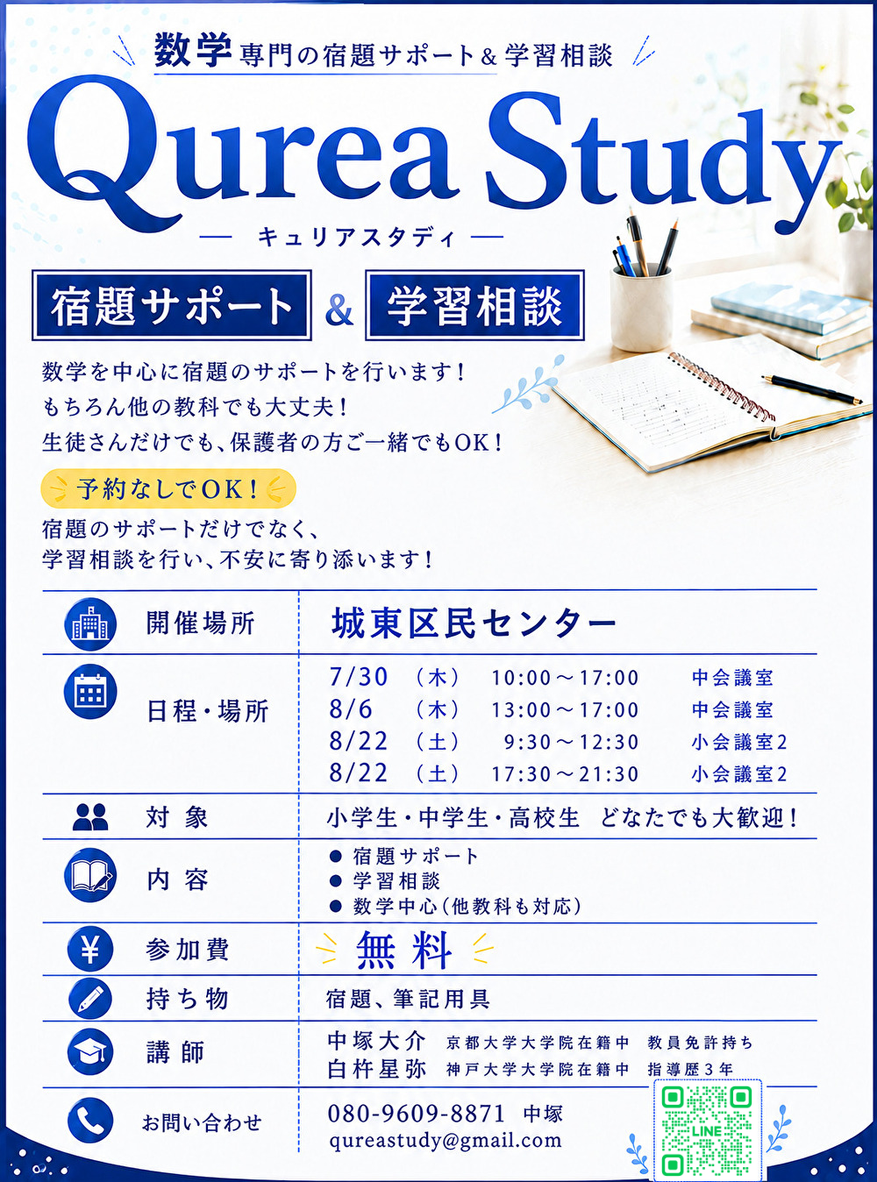
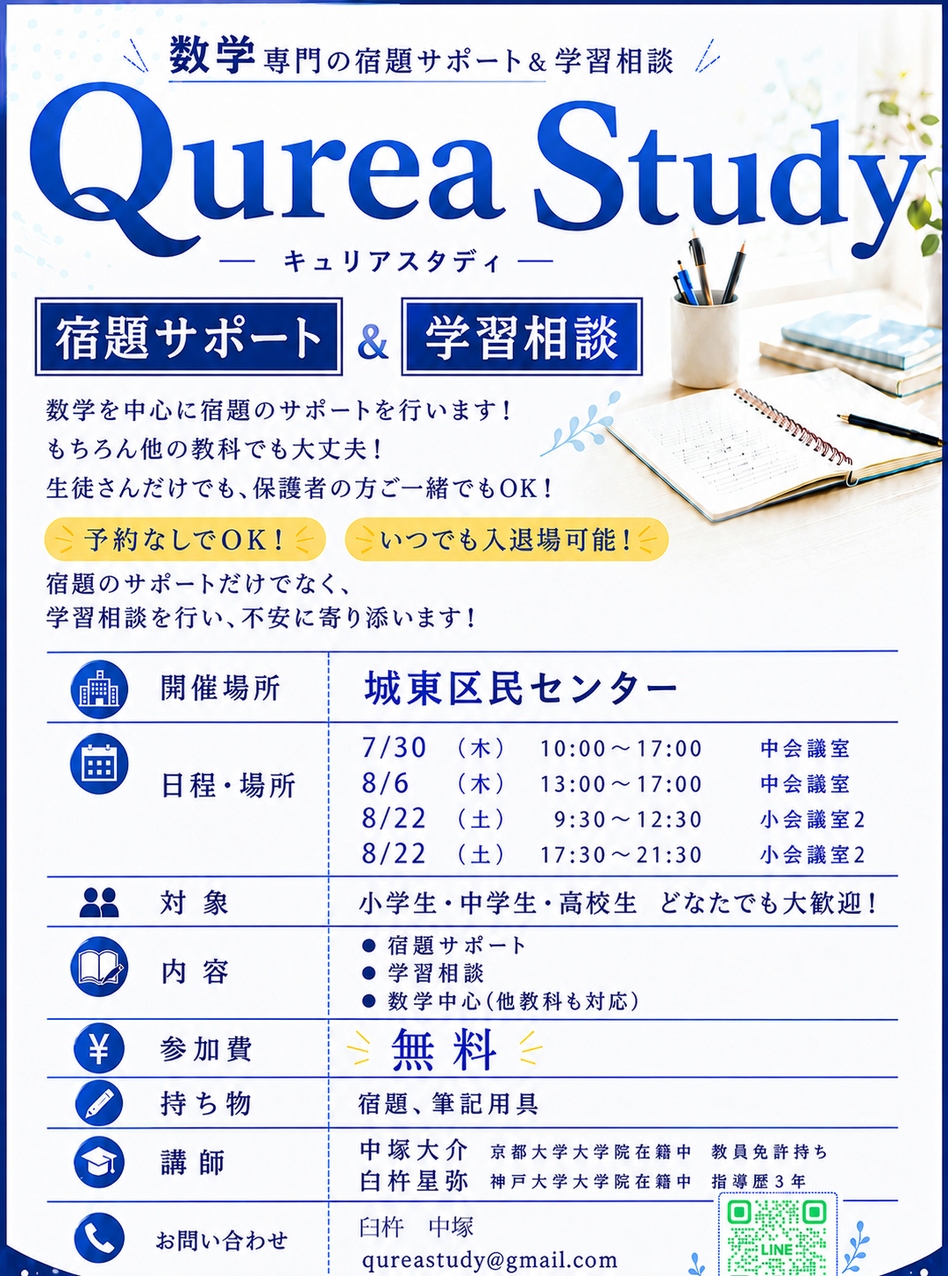
Add files via upload

Changed region(s): [[0.0, 0.0, 1.0, 1.0]]

diff --git a/event/index.html b/event/index.html
@@ -15,7 +15,7 @@
   <meta name="twitter:card" content="summary_large_image">
   <link rel="icon" href="../favicon.png" type="image/png">
   <link rel="stylesheet" href="../assets/css/style.css">
-  <script type="application/ld+json">{"@context":"https://schema.org","@type":"EducationalOrganization","name":"Qurea Study","alternateName":["QureaStudy","qureastudy","キュレアスタディ"],"url":"https://www.qurea-study.com","email":"qureastudy@gmail.com","telephone":"080-9606-8871","areaServed":["大阪市城東区","大阪市"],"description":"大阪市城東区を中心に、数学に強い家庭教師・個別指導を行う学習サポートサービスです。"}</script>
+  <script type="application/ld+json">{"@context":"https://schema.org","@type":"EducationalOrganization","name":"Qurea Study","alternateName":["QureaStudy","qureastudy","キュレアスタディ"],"url":"https://www.qurea-study.com","email":"qureastudy@gmail.com","areaServed":["大阪市城東区","大阪市"],"description":"大阪市城東区を中心に、数学に強い家庭教師・個別指導を行う学習サポートサービスです。"}</script>
   <script type="application/ld+json">{"@context":"https://schema.org","@graph":[{"@type":"Event","name":"夏休み 宿題サポート＆学習相談","description":"数学を中心とした宿題サポートと学習相談。参加費無料・予約不要。","startDate":"2026-07-30T10:00:00+09:00","endDate":"2026-07-30T17:00:00+09:00","eventAttendanceMode":"https://schema.org/OfflineEventAttendanceMode","eventStatus":"https://schema.org/EventScheduled","isAccessibleForFree":true,"location":{"@type":"Place","name":"城東区民センター 中会議室","address":{"@type":"PostalAddress","addressLocality":"大阪市城東区","addressRegion":"大阪府","addressCountry":"JP"}},"organizer":{"@type":"Organization","name":"Qurea Study","url":"https://www.qurea-study.com"},"offers":{"@type":"Offer","price":"0","priceCurrency":"JPY","availability":"https://schema.org/InStock","url":"https://www.qurea-study.com/event/"}},{"@type":"Event","name":"夏休み 宿題サポート＆学習相談","description":"数学を中心とした宿題サポートと学習相談。参加費無料・予約不要。","startDate":"2026-08-06T13:00:00+09:00","endDate":"2026-08-06T17:00:00+09:00","eventAttendanceMode":"https://schema.org/OfflineEventAttendanceMode","eventStatus":"https://schema.org/EventScheduled","isAccessibleForFree":true,"location":{"@type":"Place","name":"城東区民センター 中会議室","address":{"@type":"PostalAddress","addressLocality":"大阪市城東区","addressRegion":"大阪府","addressCountry":"JP"}},"organizer":{"@type":"Organization","name":"Qurea Study","url":"https://www.qurea-study.com"},"offers":{"@type":"Offer","price":"0","priceCurrency":"JPY","availability":"https://schema.org/InStock","url":"https://www.qurea-study.com/event/"}},{"@type":"Event","name":"夏休み 宿題サポート＆学習相談","description":"数学を中心とした宿題サポートと学習相談。参加費無料・予約不要。","startDate":"2026-08-22T09:30:00+09:00","endDate":"2026-08-22T12:30:00+09:00","eventAttendanceMode":"https://schema.org/OfflineEventAttendanceMode","eventStatus":"https://schema.org/EventScheduled","isAccessibleForFree":true,"location":{"@type":"Place","name":"城東区民センター 小会議室2","address":{"@type":"PostalAddress","addressLocality":"大阪市城東区","addressRegion":"大阪府","addressCountry":"JP"}},"organizer":{"@type":"Organization","name":"Qurea Study","url":"https://www.qurea-study.com"},"offers":{"@type":"Offer","price":"0","priceCurrency":"JPY","availability":"https://schema.org/InStock","url":"https://www.qurea-study.com/event/"}},{"@type":"Event","name":"夏休み 宿題サポート＆学習相談","description":"数学を中心とした宿題サポートと学習相談。参加費無料・予約不要。","startDate":"2026-08-22T17:30:00+09:00","endDate":"2026-08-22T21:30:00+09:00","eventAttendanceMode":"https://schema.org/OfflineEventAttendanceMode","eventStatus":"https://schema.org/EventScheduled","isAccessibleForFree":true,"location":{"@type":"Place","name":"城東区民センター 小会議室2","address":{"@type":"PostalAddress","addressLocality":"大阪市城東区","addressRegion":"大阪府","addressCountry":"JP"}},"organizer":{"@type":"Organization","name":"Qurea Study","url":"https://www.qurea-study.com"},"offers":{"@type":"Offer","price":"0","priceCurrency":"JPY","availability":"https://schema.org/InStock","url":"https://www.qurea-study.com/event/"}}]}</script>
 </head>
 <body>
@@ -26,7 +26,7 @@
       <span><small>数学に強い家庭教師</small><strong>Qurea Study</strong></span>
     </a>
     <button class="menu-button" type="button" aria-label="メニューを開く" aria-expanded="false" aria-controls="global-nav"><span></span><span></span><span></span></button>
-    <nav class="global-nav" id="global-nav" aria-label="グローバルナビゲーション"><a href="../">トップ</a><a href="../event/" class="nav-event" aria-current="page">夏休み無料イベント</a><a href="../math/">数学特化</a><a href="../price/">料金</a><a href="../exam-test/">受験・テスト</a><a href="../online/">オンライン</a><a href="../area/osaka-joto/">対応地域</a><a href="../faq/">FAQ</a><a href="../contact/">無料相談</a></nav><div class="header-actions"><a class="header-phone" href="tel:08096068871">080-9606-8871</a><a class="header-cta" href="#line-qr">無料学習相談</a></div>
+    <nav class="global-nav" id="global-nav" aria-label="グローバルナビゲーション"><a href="../">トップ</a><a href="../event/" class="nav-event" aria-current="page">夏休み無料イベント</a><a href="../math/">数学特化</a><a href="../price/">料金</a><a href="../exam-test/">受験・テスト</a><a href="../online/">オンライン</a><a href="../area/osaka-joto/">対応地域</a><a href="../faq/">FAQ</a><a href="../contact/">無料相談</a></nav><div class="header-actions"><a class="header-cta" href="#line-qr">無料学習相談</a></div>
   </div>
 </header>
 <main>

diff --git a/contact/index.html b/contact/index.html
@@ -1,4 +1,4 @@
-<!doctype html>
+<!doctype html>
 <html lang="ja">
 <head>
   <meta charset="utf-8">
@@ -15,7 +15,7 @@
   <meta name="twitter:card" content="summary_large_image">
   <link rel="icon" href="../favicon.png" type="image/png">
   <link rel="stylesheet" href="../assets/css/style.css">
-  <script type="application/ld+json">{"@context":"https://schema.org","@type":"EducationalOrganization","name":"Qurea Study","alternateName":["QureaStudy","qureastudy","キュレアスタディ"],"url":"https://www.qurea-study.com","email":"qureastudy@gmail.com","telephone":"080-9606-8871","areaServed":["大阪市城東区","大阪市"],"description":"大阪市城東区を中心に、数学に強い家庭教師・個別指導を行う学習サポートサービスです。"}</script>
+  <script type="application/ld+json">{"@context":"https://schema.org","@type":"EducationalOrganization","name":"Qurea Study","alternateName":["QureaStudy","qureastudy","キュレアスタディ"],"url":"https://www.qurea-study.com","email":"qureastudy@gmail.com","areaServed":["大阪市城東区","大阪市"],"description":"大阪市城東区を中心に、数学に強い家庭教師・個別指導を行う学習サポートサービスです。"}</script>
   
 </head>
 <body>
@@ -26,7 +26,7 @@
       <span><small>数学に強い家庭教師</small><strong>Qurea Study</strong></span>
     </a>
     <button class="menu-button" type="button" aria-label="メニューを開く" aria-expanded="false" aria-controls="global-nav"><span></span><span></span><span></span></button>
-    <nav class="global-nav" id="global-nav" aria-label="グローバルナビゲーション"><a href="../">トップ</a><a href="../event/" class="nav-event">夏休み無料イベント</a><a href="../math/">数学特化</a><a href="../price/">料金</a><a href="../exam-test/">受験・テスト</a><a href="../online/">オンライン</a><a href="../area/osaka-joto/">対応地域</a><a href="../faq/">FAQ</a><a href="../contact/" aria-current="page">無料相談</a></nav><div class="header-actions"><a class="header-phone" href="tel:08096068871">080-9606-8871</a><a class="header-cta" href="#line-qr">無料学習相談</a></div>
+    <nav class="global-nav" id="global-nav" aria-label="グローバルナビゲーション"><a href="../">トップ</a><a href="../event/" class="nav-event">夏休み無料イベント</a><a href="../math/">数学特化</a><a href="../price/">料金</a><a href="../exam-test/">受験・テスト</a><a href="../online/">オンライン</a><a href="../area/osaka-joto/">対応地域</a><a href="../faq/">FAQ</a><a href="../contact/" aria-current="page">無料相談</a></nav><div class="header-actions"><a class="header-cta" href="#line-qr">無料学習相談</a></div>
   </div>
 </header>
 <main>
@@ -38,7 +38,7 @@
         <p>LINEで無料学習相談、勉強方法の相談、わからない問題の写真相談、無料体験の申し込みができます。まずは現在の学習状況をお知らせください。</p>
         <div class="button-row"><a class="button primary" href="#line-qr">LINEで無料相談する</a><a class="button secondary" href="#line-qr">無料体験を申し込む</a></div>
       </div>
-      <figure class="hero-photo"><img src="../assets/images/illustration-contact.svg" alt="チャットと電話でのお問い合わせをイメージしたイラスト" loading="eager"><figcaption>無料体験の前に、学習状況や不安な点を相談できます。</figcaption></figure>
+      <figure class="hero-photo"><img src="../assets/images/illustration-contact.svg" alt="チャットでのお問い合わせをイメージしたイラスト" loading="eager"><figcaption>無料体験の前に、学習状況や不安な点を相談できます。</figcaption></figure>
     </div>
   </section>
   <div class="container"><nav class="breadcrumb" aria-label="パンくずリスト"><ol><li><a href="../">トップ</a></li><li aria-current="page">お問い合わせページ</li></ol></nav></div>
@@ -51,7 +51,7 @@
 </section>
   
   
-  <section class="section section-soft"><div class="container contact-methods"><a href="tel:08096068871"><span>電話</span><strong>080-9606-8871</strong></a><a href="mailto:qureastudy@gmail.com"><span>メール</span><strong>qureastudy@gmail.com</strong></a><a href="../price/"><span>料金確認</span><strong>料金表を見る</strong></a></div></section>
+  <section class="section section-soft"><div class="container contact-methods"><a href="mailto:qureastudy@gmail.com"><span>メール</span><strong>qureastudy@gmail.com</strong></a><a href="../price/"><span>料金確認</span><strong>料金表を見る</strong></a></div></section>
   <div class="container"><p class="teacher-credit">講師<br>中塚　京都大学大学院　中高教員免許持ち<br>臼杵　神戸大学大学院　指導歴4年</p></div>
   <section class="section related-links"><div class="container"><h2>関連ページ</h2><div class="related-grid"><a href="../math/">数学が苦手な生徒へ</a><a href="../price/">料金案内</a><a href="../exam-test/">定期テスト・大学受験対策</a><a href="../online/">オンライン家庭教師</a><a href="../area/osaka-joto/">大阪市城東区の家庭教師</a><a href="../contact/">お問い合わせ</a></div></div></section>
   <section class="line-cta" aria-labelledby="line-cta-contact-index">

diff --git a/faq/index.html b/faq/index.html
@@ -1,4 +1,4 @@
-<!doctype html>
+<!doctype html>
 <html lang="ja">
 <head>
   <meta charset="utf-8">
@@ -15,7 +15,7 @@
   <meta name="twitter:card" content="summary_large_image">
   <link rel="icon" href="../favicon.png" type="image/png">
   <link rel="stylesheet" href="../assets/css/style.css">
-  <script type="application/ld+json">{"@context":"https://schema.org","@type":"EducationalOrganization","name":"Qurea Study","alternateName":["QureaStudy","qureastudy","キュレアスタディ"],"url":"https://www.qurea-study.com","email":"qureastudy@gmail.com","telephone":"080-9606-8871","areaServed":["大阪市城東区","大阪市"],"description":"大阪市城東区を中心に、数学に強い家庭教師・個別指導を行う学習サポートサービスです。"}</script>
+  <script type="application/ld+json">{"@context":"https://schema.org","@type":"EducationalOrganization","name":"Qurea Study","alternateName":["QureaStudy","qureastudy","キュレアスタディ"],"url":"https://www.qurea-study.com","email":"qureastudy@gmail.com","areaServed":["大阪市城東区","大阪市"],"description":"大阪市城東区を中心に、数学に強い家庭教師・個別指導を行う学習サポートサービスです。"}</script>
   <script type="application/ld+json">{"@context":"https://schema.org","@type":"FAQPage","mainEntity":[{"@type":"Question","name":"無料体験はできますか？","acceptedAnswer":{"@type":"Answer","text":"はい、初回60分無料体験を相談できます。学年、教科、苦手分野、希望日時をLINEからお知らせください。"}},{"@type":"Question","name":"数学が苦手でも大丈夫ですか？","acceptedAnswer":{"@type":"Answer","text":"大丈夫です。数学科出身講師も在籍しており、苦手な部分を分析して基礎から丁寧に指導します。"}},{"@type":"Question","name":"オンライン指導は可能ですか？","acceptedAnswer":{"@type":"Answer","text":"はい、Zoom等を使ったオンライン指導にも対応しています。LINEで問題写真を送って相談することもできます。"}},{"@type":"Question","name":"大学受験対策はできますか？","acceptedAnswer":{"@type":"Answer","text":"共通テスト対策、国公立大学受験、難関私大受験に対応しています。"}},{"@type":"Question","name":"LINEでは何ができますか？","acceptedAnswer":{"@type":"Answer","text":"無料学習相談、勉強方法の相談、わからない問題の写真相談、無料体験の申し込みができます。"}}]}</script>
 </head>
 <body>
@@ -26,7 +26,7 @@
       <span><small>数学に強い家庭教師</small><strong>Qurea Study</strong></span>
     </a>
     <button class="menu-button" type="button" aria-label="メニューを開く" aria-expanded="false" aria-controls="global-nav"><span></span><span></span><span></span></button>
-    <nav class="global-nav" id="global-nav" aria-label="グローバルナビゲーション"><a href="../">トップ</a><a href="../event/" class="nav-event">夏休み無料イベント</a><a href="../math/">数学特化</a><a href="../price/">料金</a><a href="../exam-test/">受験・テスト</a><a href="../online/">オンライン</a><a href="../area/osaka-joto/">対応地域</a><a href="../faq/" aria-current="page">FAQ</a><a href="../contact/">無料相談</a></nav><div class="header-actions"><a class="header-phone" href="tel:08096068871">080-9606-8871</a><a class="header-cta" href="#line-qr">無料学習相談</a></div>
+    <nav class="global-nav" id="global-nav" aria-label="グローバルナビゲーション"><a href="../">トップ</a><a href="../event/" class="nav-event">夏休み無料イベント</a><a href="../math/">数学特化</a><a href="../price/">料金</a><a href="../exam-test/">受験・テスト</a><a href="../online/">オンライン</a><a href="../area/osaka-joto/">対応地域</a><a href="../faq/" aria-current="page">FAQ</a><a href="../contact/">無料相談</a></nav><div class="header-actions"><a class="header-cta" href="#line-qr">無料学習相談</a></div>
   </div>
 </header>
 <main>

diff --git a/area/osaka-joto/index.html b/area/osaka-joto/index.html
@@ -1,4 +1,4 @@
-<!doctype html>
+<!doctype html>
 <html lang="ja">
 <head>
   <meta charset="utf-8">
@@ -15,7 +15,7 @@
   <meta name="twitter:card" content="summary_large_image">
   <link rel="icon" href="../../favicon.png" type="image/png">
   <link rel="stylesheet" href="../../assets/css/style.css">
-  <script type="application/ld+json">{"@context":"https://schema.org","@type":"EducationalOrganization","name":"Qurea Study","alternateName":["QureaStudy","qureastudy","キュレアスタディ"],"url":"https://www.qurea-study.com","email":"qureastudy@gmail.com","telephone":"080-9606-8871","areaServed":["大阪市城東区","大阪市"],"description":"大阪市城東区を中心に、数学に強い家庭教師・個別指導を行う学習サポートサービスです。"}</script>
+  <script type="application/ld+json">{"@context":"https://schema.org","@type":"EducationalOrganization","name":"Qurea Study","alternateName":["QureaStudy","qureastudy","キュレアスタディ"],"url":"https://www.qurea-study.com","email":"qureastudy@gmail.com","areaServed":["大阪市城東区","大阪市"],"description":"大阪市城東区を中心に、数学に強い家庭教師・個別指導を行う学習サポートサービスです。"}</script>
   
 </head>
 <body>
@@ -26,7 +26,7 @@
       <span><small>数学に強い家庭教師</small><strong>Qurea Study</strong></span>
     </a>
     <button class="menu-button" type="button" aria-label="メニューを開く" aria-expanded="false" aria-controls="global-nav"><span></span><span></span><span></span></button>
-    <nav class="global-nav" id="global-nav" aria-label="グローバルナビゲーション"><a href="../../">トップ</a><a href="../../event/" class="nav-event">夏休み無料イベント</a><a href="../../math/">数学特化</a><a href="../../price/">料金</a><a href="../../exam-test/">受験・テスト</a><a href="../../online/">オンライン</a><a href="../../area/osaka-joto/" aria-current="page">対応地域</a><a href="../../faq/">FAQ</a><a href="../../contact/">無料相談</a></nav><div class="header-actions"><a class="header-phone" href="tel:08096068871">080-9606-8871</a><a class="header-cta" href="#line-qr">無料学習相談</a></div>
+    <nav class="global-nav" id="global-nav" aria-label="グローバルナビゲーション"><a href="../../">トップ</a><a href="../../event/" class="nav-event">夏休み無料イベント</a><a href="../../math/">数学特化</a><a href="../../price/">料金</a><a href="../../exam-test/">受験・テスト</a><a href="../../online/">オンライン</a><a href="../../area/osaka-joto/" aria-current="page">対応地域</a><a href="../../faq/">FAQ</a><a href="../../contact/">無料相談</a></nav><div class="header-actions"><a class="header-cta" href="#line-qr">無料学習相談</a></div>
   </div>
 </header>
 <main>

diff --git a/exam-test/index.html b/exam-test/index.html
@@ -1,4 +1,4 @@
-<!doctype html>
+<!doctype html>
 <html lang="ja">
 <head>
   <meta charset="utf-8">
@@ -15,7 +15,7 @@
   <meta name="twitter:card" content="summary_large_image">
   <link rel="icon" href="../favicon.png" type="image/png">
   <link rel="stylesheet" href="../assets/css/style.css">
-  <script type="application/ld+json">{"@context":"https://schema.org","@type":"EducationalOrganization","name":"Qurea Study","alternateName":["QureaStudy","qureastudy","キュレアスタディ"],"url":"https://www.qurea-study.com","email":"qureastudy@gmail.com","telephone":"080-9606-8871","areaServed":["大阪市城東区","大阪市"],"description":"大阪市城東区を中心に、数学に強い家庭教師・個別指導を行う学習サポートサービスです。"}</script>
+  <script type="application/ld+json">{"@context":"https://schema.org","@type":"EducationalOrganization","name":"Qurea Study","alternateName":["QureaStudy","qureastudy","キュレアスタディ"],"url":"https://www.qurea-study.com","email":"qureastudy@gmail.com","areaServed":["大阪市城東区","大阪市"],"description":"大阪市城東区を中心に、数学に強い家庭教師・個別指導を行う学習サポートサービスです。"}</script>
   
 </head>
 <body>
@@ -26,7 +26,7 @@
       <span><small>数学に強い家庭教師</small><strong>Qurea Study</strong></span>
     </a>
     <button class="menu-button" type="button" aria-label="メニューを開く" aria-expanded="false" aria-controls="global-nav"><span></span><span></span><span></span></button>
-    <nav class="global-nav" id="global-nav" aria-label="グローバルナビゲーション"><a href="../">トップ</a><a href="../event/" class="nav-event">夏休み無料イベント</a><a href="../math/">数学特化</a><a href="../price/">料金</a><a href="../exam-test/" aria-current="page">受験・テスト</a><a href="../online/">オンライン</a><a href="../area/osaka-joto/">対応地域</a><a href="../faq/">FAQ</a><a href="../contact/">無料相談</a></nav><div class="header-actions"><a class="header-phone" href="tel:08096068871">080-9606-8871</a><a class="header-cta" href="#line-qr">無料学習相談</a></div>
+    <nav class="global-nav" id="global-nav" aria-label="グローバルナビゲーション"><a href="../">トップ</a><a href="../event/" class="nav-event">夏休み無料イベント</a><a href="../math/">数学特化</a><a href="../price/">料金</a><a href="../exam-test/" aria-current="page">受験・テスト</a><a href="../online/">オンライン</a><a href="../area/osaka-joto/">対応地域</a><a href="../faq/">FAQ</a><a href="../contact/">無料相談</a></nav><div class="header-actions"><a class="header-cta" href="#line-qr">無料学習相談</a></div>
   </div>
 </header>
 <main>

diff --git a/math/index.html b/math/index.html
@@ -1,4 +1,4 @@
-<!doctype html>
+<!doctype html>
 <html lang="ja">
 <head>
   <meta charset="utf-8">
@@ -15,7 +15,7 @@
   <meta name="twitter:card" content="summary_large_image">
   <link rel="icon" href="../favicon.png" type="image/png">
   <link rel="stylesheet" href="../assets/css/style.css">
-  <script type="application/ld+json">{"@context":"https://schema.org","@type":"EducationalOrganization","name":"Qurea Study","alternateName":["QureaStudy","qureastudy","キュレアスタディ"],"url":"https://www.qurea-study.com","email":"qureastudy@gmail.com","telephone":"080-9606-8871","areaServed":["大阪市城東区","大阪市"],"description":"大阪市城東区を中心に、数学に強い家庭教師・個別指導を行う学習サポートサービスです。"}</script>
+  <script type="application/ld+json">{"@context":"https://schema.org","@type":"EducationalOrganization","name":"Qurea Study","alternateName":["QureaStudy","qureastudy","キュレアスタディ"],"url":"https://www.qurea-study.com","email":"qureastudy@gmail.com","areaServed":["大阪市城東区","大阪市"],"description":"大阪市城東区を中心に、数学に強い家庭教師・個別指導を行う学習サポートサービスです。"}</script>
   
 </head>
 <body>
@@ -26,7 +26,7 @@
       <span><small>数学に強い家庭教師</small><strong>Qurea Study</strong></span>
     </a>
     <button class="menu-button" type="button" aria-label="メニューを開く" aria-expanded="false" aria-controls="global-nav"><span></span><span></span><span></span></button>
-    <nav class="global-nav" id="global-nav" aria-label="グローバルナビゲーション"><a href="../">トップ</a><a href="../event/" class="nav-event">夏休み無料イベント</a><a href="../math/" aria-current="page">数学特化</a><a href="../price/">料金</a><a href="../exam-test/">受験・テスト</a><a href="../online/">オンライン</a><a href="../area/osaka-joto/">対応地域</a><a href="../faq/">FAQ</a><a href="../contact/">無料相談</a></nav><div class="header-actions"><a class="header-phone" href="tel:08096068871">080-9606-8871</a><a class="header-cta" href="#line-qr">無料学習相談</a></div>
+    <nav class="global-nav" id="global-nav" aria-label="グローバルナビゲーション"><a href="../">トップ</a><a href="../event/" class="nav-event">夏休み無料イベント</a><a href="../math/" aria-current="page">数学特化</a><a href="../price/">料金</a><a href="../exam-test/">受験・テスト</a><a href="../online/">オンライン</a><a href="../area/osaka-joto/">対応地域</a><a href="../faq/">FAQ</a><a href="../contact/">無料相談</a></nav><div class="header-actions"><a class="header-cta" href="#line-qr">無料学習相談</a></div>
   </div>
 </header>
 <main>

diff --git a/online/index.html b/online/index.html
@@ -1,4 +1,4 @@
-<!doctype html>
+<!doctype html>
 <html lang="ja">
 <head>
   <meta charset="utf-8">
@@ -15,7 +15,7 @@
   <meta name="twitter:card" content="summary_large_image">
   <link rel="icon" href="../favicon.png" type="image/png">
   <link rel="stylesheet" href="../assets/css/style.css">
-  <script type="application/ld+json">{"@context":"https://schema.org","@type":"EducationalOrganization","name":"Qurea Study","alternateName":["QureaStudy","qureastudy","キュレアスタディ"],"url":"https://www.qurea-study.com","email":"qureastudy@gmail.com","telephone":"080-9606-8871","areaServed":["大阪市城東区","大阪市"],"description":"大阪市城東区を中心に、数学に強い家庭教師・個別指導を行う学習サポートサービスです。"}</script>
+  <script type="application/ld+json">{"@context":"https://schema.org","@type":"EducationalOrganization","name":"Qurea Study","alternateName":["QureaStudy","qureastudy","キュレアスタディ"],"url":"https://www.qurea-study.com","email":"qureastudy@gmail.com","areaServed":["大阪市城東区","大阪市"],"description":"大阪市城東区を中心に、数学に強い家庭教師・個別指導を行う学習サポートサービスです。"}</script>
   
 </head>
 <body>
@@ -26,7 +26,7 @@
       <span><small>数学に強い家庭教師</small><strong>Qurea Study</strong></span>
     </a>
     <button class="menu-button" type="button" aria-label="メニューを開く" aria-expanded="false" aria-controls="global-nav"><span></span><span></span><span></span></button>
-    <nav class="global-nav" id="global-nav" aria-label="グローバルナビゲーション"><a href="../">トップ</a><a href="../event/" class="nav-event">夏休み無料イベント</a><a href="../math/">数学特化</a><a href="../price/">料金</a><a href="../exam-test/">受験・テスト</a><a href="../online/" aria-current="page">オンライン</a><a href="../area/osaka-joto/">対応地域</a><a href="../faq/">FAQ</a><a href="../contact/">無料相談</a></nav><div class="header-actions"><a class="header-phone" href="tel:08096068871">080-9606-8871</a><a class="header-cta" href="#line-qr">無料学習相談</a></div>
+    <nav class="global-nav" id="global-nav" aria-label="グローバルナビゲーション"><a href="../">トップ</a><a href="../event/" class="nav-event">夏休み無料イベント</a><a href="../math/">数学特化</a><a href="../price/">料金</a><a href="../exam-test/">受験・テスト</a><a href="../online/" aria-current="page">オンライン</a><a href="../area/osaka-joto/">対応地域</a><a href="../faq/">FAQ</a><a href="../contact/">無料相談</a></nav><div class="header-actions"><a class="header-cta" href="#line-qr">無料学習相談</a></div>
   </div>
 </header>
 <main>

diff --git a/price/index.html b/price/index.html
@@ -1,4 +1,4 @@
-<!doctype html>
+<!doctype html>
 <html lang="ja">
 <head>
   <meta charset="utf-8">
@@ -15,7 +15,7 @@
   <meta name="twitter:card" content="summary_large_image">
   <link rel="icon" href="../favicon.png" type="image/png">
   <link rel="stylesheet" href="../assets/css/style.css">
-  <script type="application/ld+json">{"@context":"https://schema.org","@type":"EducationalOrganization","name":"Qurea Study","alternateName":["QureaStudy","qureastudy","キュレアスタディ"],"url":"https://www.qurea-study.com","email":"qureastudy@gmail.com","telephone":"080-9606-8871","areaServed":["大阪市城東区","大阪市"],"description":"大阪市城東区を中心に、数学に強い家庭教師・個別指導を行う学習サポートサービスです。"}</script>
+  <script type="application/ld+json">{"@context":"https://schema.org","@type":"EducationalOrganization","name":"Qurea Study","alternateName":["QureaStudy","qureastudy","キュレアスタディ"],"url":"https://www.qurea-study.com","email":"qureastudy@gmail.com","areaServed":["大阪市城東区","大阪市"],"description":"大阪市城東区を中心に、数学に強い家庭教師・個別指導を行う学習サポートサービスです。"}</script>
   
 </head>
 <body>
@@ -26,7 +26,7 @@
       <span><small>数学に強い家庭教師</small><strong>Qurea Study</strong></span>
     </a>
     <button class="menu-button" type="button" aria-label="メニューを開く" aria-expanded="false" aria-controls="global-nav"><span></span><span></span><span></span></button>
-    <nav class="global-nav" id="global-nav" aria-label="グローバルナビゲーション"><a href="../">トップ</a><a href="../event/" class="nav-event">夏休み無料イベント</a><a href="../math/">数学特化</a><a href="../price/" aria-current="page">料金</a><a href="../exam-test/">受験・テスト</a><a href="../online/">オンライン</a><a href="../area/osaka-joto/">対応地域</a><a href="../faq/">FAQ</a><a href="../contact/">無料相談</a></nav><div class="header-actions"><a class="header-phone" href="tel:08096068871">080-9606-8871</a><a class="header-cta" href="#line-qr">無料学習相談</a></div>
+    <nav class="global-nav" id="global-nav" aria-label="グローバルナビゲーション"><a href="../">トップ</a><a href="../event/" class="nav-event">夏休み無料イベント</a><a href="../math/">数学特化</a><a href="../price/" aria-current="page">料金</a><a href="../exam-test/">受験・テスト</a><a href="../online/">オンライン</a><a href="../area/osaka-joto/">対応地域</a><a href="../faq/">FAQ</a><a href="../contact/">無料相談</a></nav><div class="header-actions"><a class="header-cta" href="#line-qr">無料学習相談</a></div>
   </div>
 </header>
 <main>

diff --git a/elementary-school/index.html b/elementary-school/index.html
@@ -1,4 +1,4 @@
-<!doctype html>
+<!doctype html>
 <html lang="ja">
 <head>
   <meta charset="utf-8">
@@ -15,7 +15,7 @@
   <meta name="twitter:card" content="summary_large_image">
   <link rel="icon" href="../favicon.png" type="image/png">
   <link rel="stylesheet" href="../assets/css/style.css">
-  <script type="application/ld+json">{"@context":"https://schema.org","@type":"EducationalOrganization","name":"Qurea Study","alternateName":["QureaStudy","qureastudy","キュレアスタディ"],"url":"https://www.qurea-study.com","email":"qureastudy@gmail.com","telephone":"080-9606-8871","areaServed":["大阪市城東区","大阪市"],"description":"大阪市城東区を中心に、数学に強い家庭教師・個別指導を行う学習サポートサービスです。"}</script>
+  <script type="application/ld+json">{"@context":"https://schema.org","@type":"EducationalOrganization","name":"Qurea Study","alternateName":["QureaStudy","qureastudy","キュレアスタディ"],"url":"https://www.qurea-study.com","email":"qureastudy@gmail.com","areaServed":["大阪市城東区","大阪市"],"description":"大阪市城東区を中心に、数学に強い家庭教師・個別指導を行う学習サポートサービスです。"}</script>
   
 </head>
 <body>
@@ -26,7 +26,7 @@
       <span><small>数学に強い家庭教師</small><strong>Qurea Study</strong></span>
     </a>
     <button class="menu-button" type="button" aria-label="メニューを開く" aria-expanded="false" aria-controls="global-nav"><span></span><span></span><span></span></button>
-    <nav class="global-nav" id="global-nav" aria-label="グローバルナビゲーション"><a href="../">トップ</a><a href="../event/" class="nav-event">夏休み無料イベント</a><a href="../math/">数学特化</a><a href="../price/">料金</a><a href="../exam-test/">受験・テスト</a><a href="../online/">オンライン</a><a href="../area/osaka-joto/">対応地域</a><a href="../faq/">FAQ</a><a href="../contact/">無料相談</a></nav><div class="header-actions"><a class="header-phone" href="tel:08096068871">080-9606-8871</a><a class="header-cta" href="#line-qr">無料学習相談</a></div>
+    <nav class="global-nav" id="global-nav" aria-label="グローバルナビゲーション"><a href="../">トップ</a><a href="../event/" class="nav-event">夏休み無料イベント</a><a href="../math/">数学特化</a><a href="../price/">料金</a><a href="../exam-test/">受験・テスト</a><a href="../online/">オンライン</a><a href="../area/osaka-joto/">対応地域</a><a href="../faq/">FAQ</a><a href="../contact/">無料相談</a></nav><div class="header-actions"><a class="header-cta" href="#line-qr">無料学習相談</a></div>
   </div>
 </header>
 <main>

diff --git a/high-school/index.html b/high-school/index.html
@@ -1,4 +1,4 @@
-<!doctype html>
+<!doctype html>
 <html lang="ja">
 <head>
   <meta charset="utf-8">
@@ -15,7 +15,7 @@
   <meta name="twitter:card" content="summary_large_image">
   <link rel="icon" href="../favicon.png" type="image/png">
   <link rel="stylesheet" href="../assets/css/style.css">
-  <script type="application/ld+json">{"@context":"https://schema.org","@type":"EducationalOrganization","name":"Qurea Study","alternateName":["QureaStudy","qureastudy","キュレアスタディ"],"url":"https://www.qurea-study.com","email":"qureastudy@gmail.com","telephone":"080-9606-8871","areaServed":["大阪市城東区","大阪市"],"description":"大阪市城東区を中心に、数学に強い家庭教師・個別指導を行う学習サポートサービスです。"}</script>
+  <script type="application/ld+json">{"@context":"https://schema.org","@type":"EducationalOrganization","name":"Qurea Study","alternateName":["QureaStudy","qureastudy","キュレアスタディ"],"url":"https://www.qurea-study.com","email":"qureastudy@gmail.com","areaServed":["大阪市城東区","大阪市"],"description":"大阪市城東区を中心に、数学に強い家庭教師・個別指導を行う学習サポートサービスです。"}</script>
   
 </head>
 <body>
@@ -26,7 +26,7 @@
       <span><small>数学に強い家庭教師</small><strong>Qurea Study</strong></span>
     </a>
     <button class="menu-button" type="button" aria-label="メニューを開く" aria-expanded="false" aria-controls="global-nav"><span></span><span></span><span></span></button>
-    <nav class="global-nav" id="global-nav" aria-label="グローバルナビゲーション"><a href="../">トップ</a><a href="../event/" class="nav-event">夏休み無料イベント</a><a href="../math/">数学特化</a><a href="../price/">料金</a><a href="../exam-test/">受験・テスト</a><a href="../online/">オンライン</a><a href="../area/osaka-joto/">対応地域</a><a href="../faq/">FAQ</a><a href="../contact/">無料相談</a></nav><div class="header-actions"><a class="header-phone" href="tel:08096068871">080-9606-8871</a><a class="header-cta" href="#line-qr">無料学習相談</a></div>
+    <nav class="global-nav" id="global-nav" aria-label="グローバルナビゲーション"><a href="../">トップ</a><a href="../event/" class="nav-event">夏休み無料イベント</a><a href="../math/">数学特化</a><a href="../price/">料金</a><a href="../exam-test/">受験・テスト</a><a href="../online/">オンライン</a><a href="../area/osaka-joto/">対応地域</a><a href="../faq/">FAQ</a><a href="../contact/">無料相談</a></nav><div class="header-actions"><a class="header-cta" href="#line-qr">無料学習相談</a></div>
   </div>
 </header>
 <main>

diff --git a/junior-high-school/index.html b/junior-high-school/index.html
@@ -1,4 +1,4 @@
-<!doctype html>
+<!doctype html>
 <html lang="ja">
 <head>
   <meta charset="utf-8">
@@ -15,7 +15,7 @@
   <meta name="twitter:card" content="summary_large_image">
   <link rel="icon" href="../favicon.png" type="image/png">
   <link rel="stylesheet" href="../assets/css/style.css">
-  <script type="application/ld+json">{"@context":"https://schema.org","@type":"EducationalOrganization","name":"Qurea Study","alternateName":["QureaStudy","qureastudy","キュレアスタディ"],"url":"https://www.qurea-study.com","email":"qureastudy@gmail.com","telephone":"080-9606-8871","areaServed":["大阪市城東区","大阪市"],"description":"大阪市城東区を中心に、数学に強い家庭教師・個別指導を行う学習サポートサービスです。"}</script>
+  <script type="application/ld+json">{"@context":"https://schema.org","@type":"EducationalOrganization","name":"Qurea Study","alternateName":["QureaStudy","qureastudy","キュレアスタディ"],"url":"https://www.qurea-study.com","email":"qureastudy@gmail.com","areaServed":["大阪市城東区","大阪市"],"description":"大阪市城東区を中心に、数学に強い家庭教師・個別指導を行う学習サポートサービスです。"}</script>
   
 </head>
 <body>
@@ -26,7 +26,7 @@
       <span><small>数学に強い家庭教師</small><strong>Qurea Study</strong></span>
     </a>
     <button class="menu-button" type="button" aria-label="メニューを開く" aria-expanded="false" aria-controls="global-nav"><span></span><span></span><span></span></button>
-    <nav class="global-nav" id="global-nav" aria-label="グローバルナビゲーション"><a href="../">トップ</a><a href="../event/" class="nav-event">夏休み無料イベント</a><a href="../math/">数学特化</a><a href="../price/">料金</a><a href="../exam-test/">受験・テスト</a><a href="../online/">オンライン</a><a href="../area/osaka-joto/">対応地域</a><a href="../faq/">FAQ</a><a href="../contact/">無料相談</a></nav><div class="header-actions"><a class="header-phone" href="tel:08096068871">080-9606-8871</a><a class="header-cta" href="#line-qr">無料学習相談</a></div>
+    <nav class="global-nav" id="global-nav" aria-label="グローバルナビゲーション"><a href="../">トップ</a><a href="../event/" class="nav-event">夏休み無料イベント</a><a href="../math/">数学特化</a><a href="../price/">料金</a><a href="../exam-test/">受験・テスト</a><a href="../online/">オンライン</a><a href="../area/osaka-joto/">対応地域</a><a href="../faq/">FAQ</a><a href="../contact/">無料相談</a></nav><div class="header-actions"><a class="header-cta" href="#line-qr">無料学習相談</a></div>
   </div>
 </header>
 <main>

diff --git a/index.html b/index.html
@@ -1,4 +1,4 @@
-<!doctype html>
+<!doctype html>
 <html lang="ja">
 <head>
   <meta charset="utf-8">
@@ -15,7 +15,7 @@
   <meta name="twitter:card" content="summary_large_image">
   <link rel="icon" href="./favicon.png" type="image/png">
   <link rel="stylesheet" href="./assets/css/style.css">
-  <script type="application/ld+json">{"@context":"https://schema.org","@type":"EducationalOrganization","name":"Qurea Study","alternateName":["QureaStudy","qureastudy","キュレアスタディ"],"url":"https://www.qurea-study.com","email":"qureastudy@gmail.com","telephone":"080-9606-8871","areaServed":["大阪市城東区","大阪市"],"description":"大阪市城東区を中心に、数学に強い家庭教師・個別指導を行う学習サポートサービスです。"}</script>
+  <script type="application/ld+json">{"@context":"https://schema.org","@type":"EducationalOrganization","name":"Qurea Study","alternateName":["QureaStudy","qureastudy","キュレアスタディ"],"url":"https://www.qurea-study.com","email":"qureastudy@gmail.com","areaServed":["大阪市城東区","大阪市"],"description":"大阪市城東区を中心に、数学に強い家庭教師・個別指導を行う学習サポートサービスです。"}</script>
 </head>
 <body class="home-page">
 <div class="event-banner"><div class="container event-banner-inner"><strong>夏休み限定・参加費無料</strong><span>宿題サポート＆学習相談を城東区民センターで開催（7/30・8/6・8/22）</span><a href="./event/">詳細を見る</a></div></div>
@@ -28,7 +28,7 @@
     <button class="menu-button" type="button" aria-label="メニューを開く" aria-expanded="false" aria-controls="global-nav"><span></span><span></span><span></span></button>
     <nav class="global-nav" id="global-nav" aria-label="グローバルナビゲーション">
       <a href="./" aria-current="page">TOP</a><a href="./event/" class="nav-event">夏休み無料イベント</a><a href="./math/">数学特化</a><a href="./price/">料金</a><a href="./exam-test/">受験・テスト</a><a href="./online/">オンライン</a><a href="./area/osaka-joto/">対応地域</a><a href="./faq/">FAQ</a>
-    </nav><div class="header-actions"><a class="header-phone" href="tel:08096068871">080-9606-8871</a><a class="header-cta" href="#line-qr">無料学習相談</a></div>
+    </nav><div class="header-actions"><a class="header-cta" href="#line-qr">無料学習相談</a></div>
     
   </div>
 </header>
